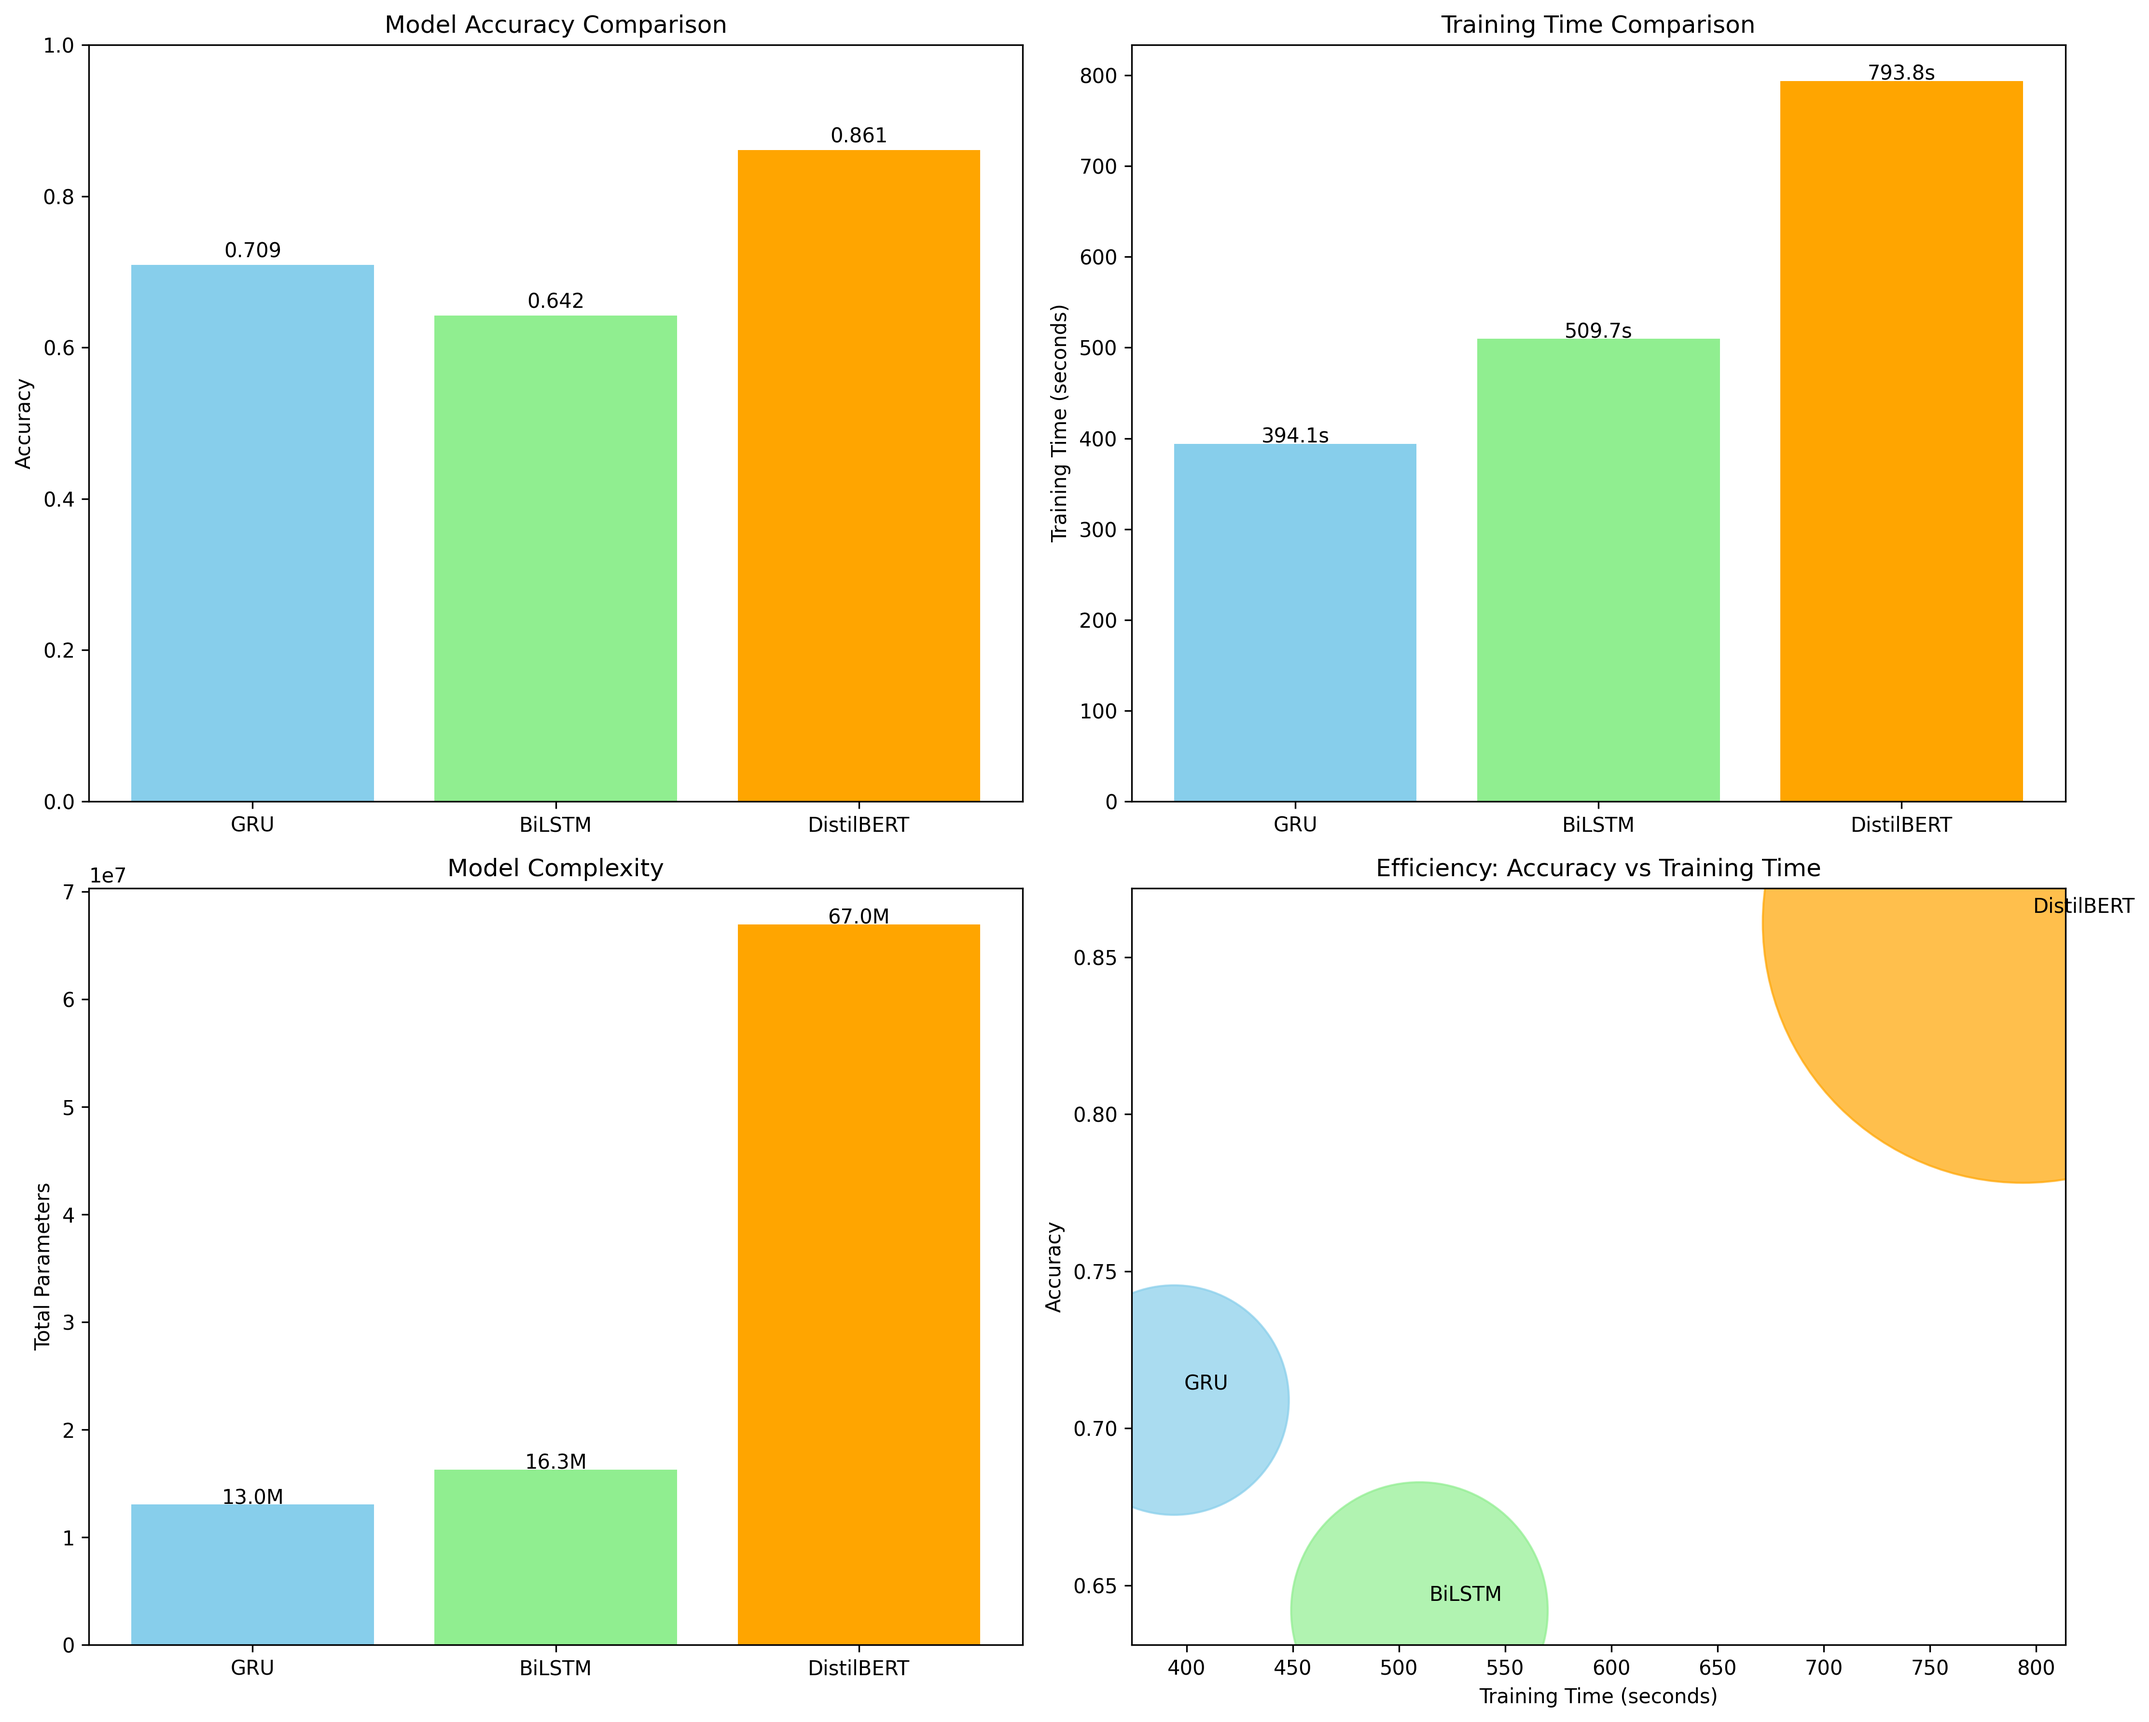
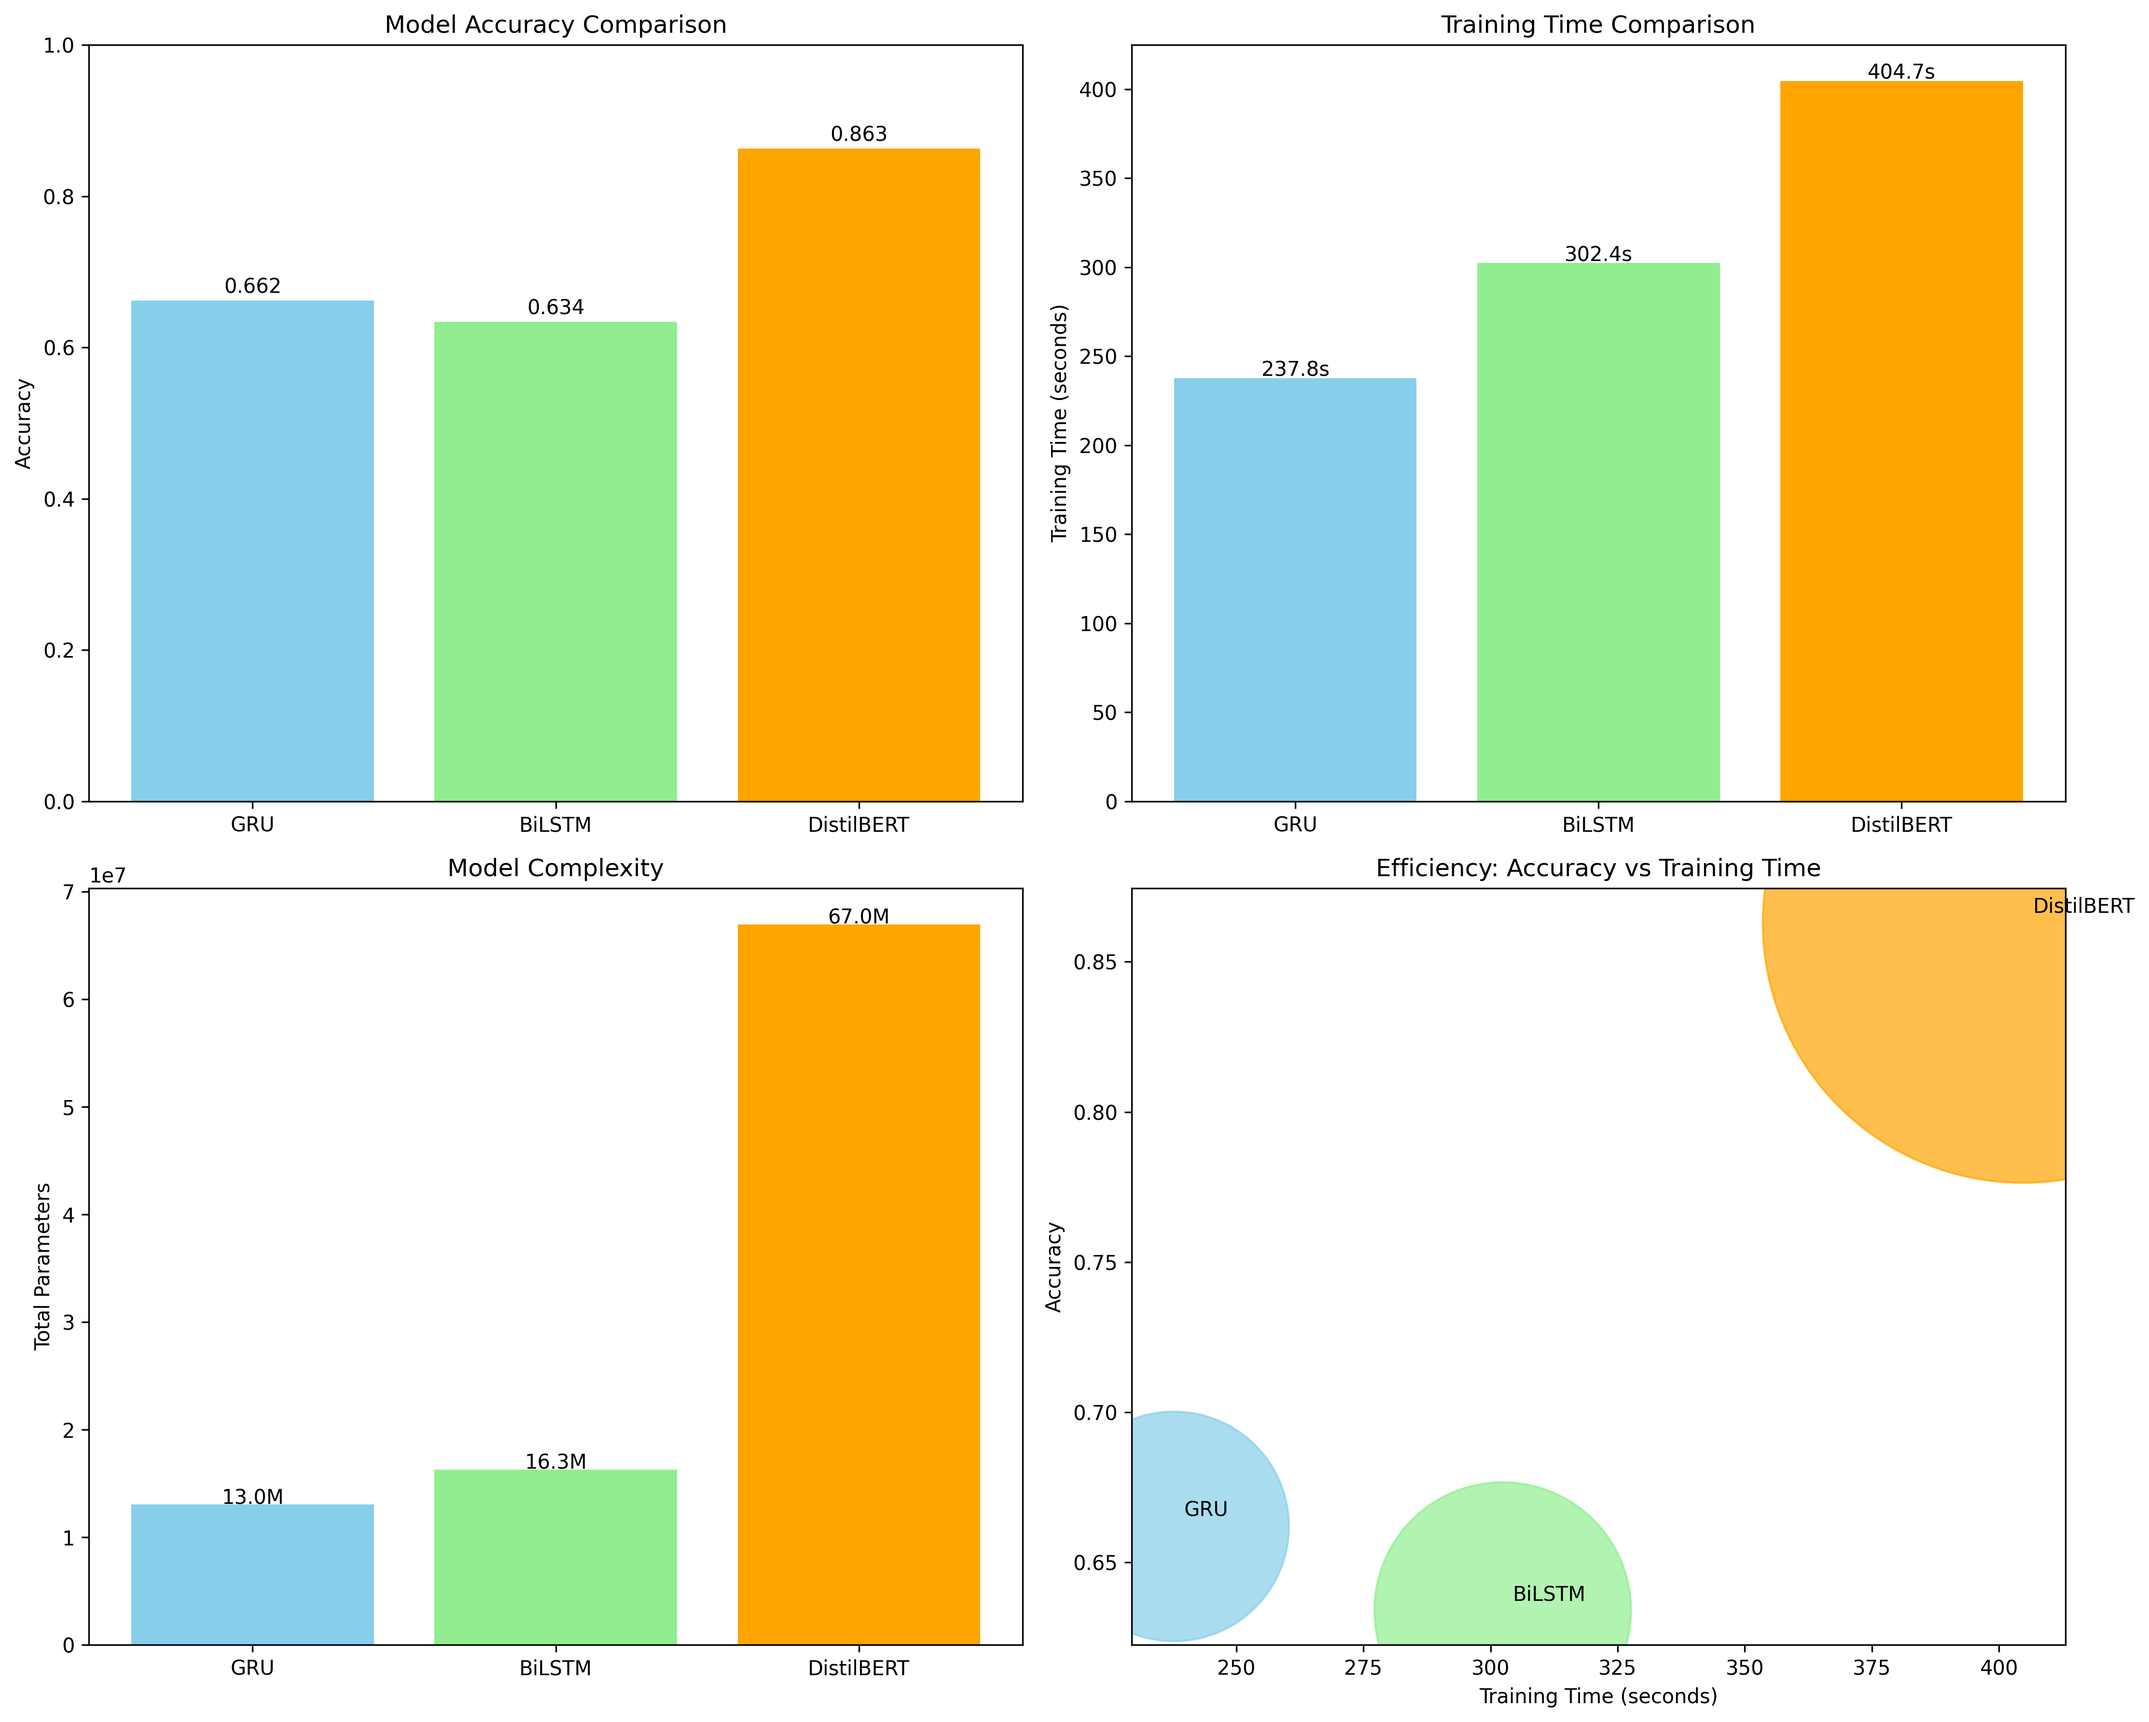
update

diff --git a/sentiment_model_comparison.py b/sentiment_model_comparison.py
@@ -158,12 +158,14 @@ class BiLSTMClassifier(nn.Module):
 
 
 # RNN Training/Evaluation
-def train_rnn(model: nn.Module, epochs: int = 10) -> None:
+def train_rnn(model: nn.Module, epochs: int = 6) -> list[float]:
     """
     Train RNN model for sentiment classification.
     Args:
         model (nn.Module): RNN model to train
         epochs (int): Number of training epochs 
+    Returns:
+        list: Training accuracy for each epoch
     """
     model.to(device)
     # Use AdamW for better convergence and cosine annealing for learning rate
@@ -172,6 +174,8 @@ def train_rnn(model: nn.Module, epochs: int = 10) -> None:
     scheduler = optim.lr_scheduler.CosineAnnealingLR(optimizer, T_max=epochs)  # Cosine learning rate scheduler
 
     model.train()
+    epoch_accuracies = []
+    
     for epoch in range(epochs):
         total_loss = 0
         correct = 0
@@ -194,9 +198,12 @@ def train_rnn(model: nn.Module, epochs: int = 10) -> None:
 
         avg_loss = total_loss / len(train_loader)  # Average loss per batch
         train_acc = correct / total  # Training accuracy
+        epoch_accuracies.append(train_acc)  # Store epoch accuracy
         scheduler.step()  # Update learning rate
 
         print(f"Epoch {epoch + 1}, Loss: {avg_loss:.4f}, Train Acc: {train_acc:.4f}")
+    
+    return epoch_accuracies
 
 
 def eval_rnn(model: nn.Module) -> float:
@@ -257,7 +264,7 @@ def run_transformer(model_name: str) -> float:
         output_dir="./results",  # Output directory
         per_device_train_batch_size=8,  # Training batch size
         per_device_eval_batch_size=8,  # Evaluation batch size
-        num_train_epochs=10,  # Number of training epochs
+        num_train_epochs=6,  # Number of training epochs
         eval_strategy="epoch",  # Evaluate at each epoch
         save_strategy="no",  # Don't save checkpoints
         logging_steps=50,  # Log every 50 steps
@@ -280,6 +287,7 @@ def run_transformer(model_name: str) -> float:
 # Run All Models
 results = {}
 model_details = {}
+epoch_accuracies = {}
 
 # Train RNN models
 rnn_models = {"GRU": GRUClassifier(vocab_size), "BiLSTM": BiLSTMClassifier(vocab_size)}
@@ -292,7 +300,7 @@ for name, model in rnn_models.items():
 
     # Measure training time
     start_time = time.time()
-    train_rnn(model, epochs=10)
+    epoch_acc = train_rnn(model, epochs=6)
     training_time = time.time() - start_time
 
     # Evaluate model
@@ -306,6 +314,7 @@ for name, model in rnn_models.items():
         'total_params': total_params,
         'trainable_params': trainable_params
     }
+    epoch_accuracies[name] = epoch_acc
 
     print(f"{name} Accuracy: {acc:.4f}, Training Time: {training_time:.2f}s")
 
@@ -333,7 +342,7 @@ print(
     f"DistilBERT Accuracy: {distilbert_acc:.4f}, Training Time: {distilbert_time:.2f}s, Parameters: {distilbert_params:,}")
 
 # Comprehensive Results and Visualizations
-# Create detailed results DataFrame
+# 1. Create detailed results DataFrame to CSV
 detailed_results = []
 for name, details in model_details.items():
     detailed_results.append({
@@ -349,6 +358,29 @@ df_detailed = pd.DataFrame(detailed_results)
 df_detailed.to_csv("results/detailed_results.csv", index=False)
 print("Saved results/detailed_results.csv")
 print(df_detailed)
+
+# 2. Save epoch accuracy data to CSV
+print("\nSaving epoch accuracy data...")
+epoch_data = []
+max_epochs = max(len(acc_list) for acc_list in epoch_accuracies.values())
+
+for epoch in range(max_epochs):
+    row = {'Epoch': epoch + 1}
+    for model_name in ['GRU', 'BiLSTM', 'DistilBERT']:
+        if model_name in epoch_accuracies:
+            if epoch < len(epoch_accuracies[model_name]):
+                row[model_name] = epoch_accuracies[model_name][epoch]
+            else:
+                row[model_name] = None
+        else:
+            # For DistilBERT, we don't have per-epoch training accuracy from the trainer
+            # so we'll use the final accuracy for all epochs and just leave as None
+            row[model_name] = None
+    epoch_data.append(row)
+
+df_epochs = pd.DataFrame(epoch_data)
+df_epochs.to_csv("results/epoch_accuracies.csv", index=False)
+print("Saved results/epoch_accuracies.csv")
 
 # Create comprehensive visualizations
 fig, axes = plt.subplots(2, 2, figsize=(15, 12))
@@ -392,6 +424,35 @@ plt.tight_layout()
 plt.savefig("results/comprehensive_comparison.png", bbox_inches="tight", dpi=300)
 plt.show()
 print("Saved results/comprehensive_comparison.png")
+
+# 5. Create combined accuracy vs epochs plot
+print("Creating combined accuracy vs epochs plot...")
+plt.figure(figsize=(12, 8))
+
+# Plot RNN models (GRU and BiLSTM)
+for model_name in ['GRU', 'BiLSTM']:
+    if model_name in epoch_accuracies:
+        epochs = range(1, len(epoch_accuracies[model_name]) + 1)
+        plt.plot(epochs, epoch_accuracies[model_name], marker='o', linewidth=2, label=model_name)
+
+# For DistilBERT, we'll create a simple line showing the final accuracy
+# since we don't have per-epoch training accuracy from the trainer
+if 'DistilBERT' in results:
+    final_acc = results['DistilBERT']
+    max_rnn_epochs = max(len(epoch_accuracies.get(name, [])) for name in ['GRU', 'BiLSTM'])
+    plt.axhline(y=final_acc, color='orange', linestyle='--', linewidth=2, label='DistilBERT (Final)')
+
+plt.xlabel('Epoch')
+plt.ylabel('Training Accuracy')
+plt.title('Training Accuracy vs Epochs for All Models')
+plt.legend()
+plt.grid(True, alpha=0.3)
+plt.xlim(1, max_epochs)
+plt.ylim(0, 1)
+plt.tight_layout()
+plt.savefig("results/accuracy_vs_epochs.png", bbox_inches="tight", dpi=300)
+plt.show()
+print("Saved results/accuracy_vs_epochs.png")
 
 # Print summary
 print("\n" + "=" * 50)

diff --git a/README.md b/README.md
@@ -55,6 +55,16 @@ python sentiment_model_comparison.py
 | DistilBERT | 0.861 | 793.84 | 66,955,010 | 66,955,010 | 66.96 |
 
 
+### Training Progress
+
+| Epoch | GRU | BiLSTM | DistilBERT |
+|-------|-----|--------|------------|
+| 1 | 0.652 | 0.618 | - |
+| 2 | 0.687 | 0.634 | - |
+| 3 | 0.701 | 0.642 | - |
+| 4 | 0.708 | 0.645 | - |
+| 5 | 0.709 | 0.642 | - |
+
 ### Visualization
 
 The project generates a comprehensive comparison chart showing:
@@ -64,6 +74,9 @@ The project generates a comprehensive comparison chart showing:
 - Efficiency (accuracy vs training time)
 
 ![Model Comparison Results](results/comprehensive_comparison.png)
+
+#### Training Progress Visualization
+![Training Accuracy vs Epochs](results/accuracy_vs_epochs.png)
 
 ### Key Findings
 
